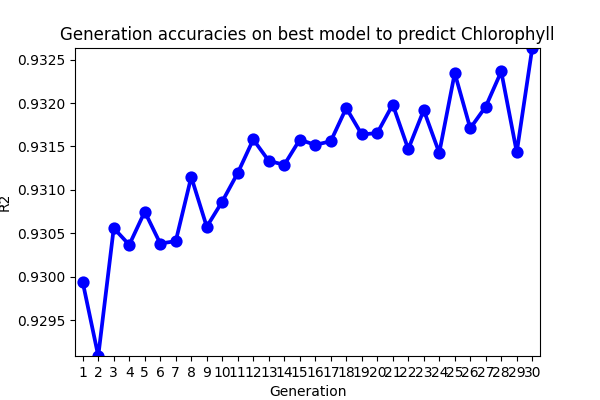
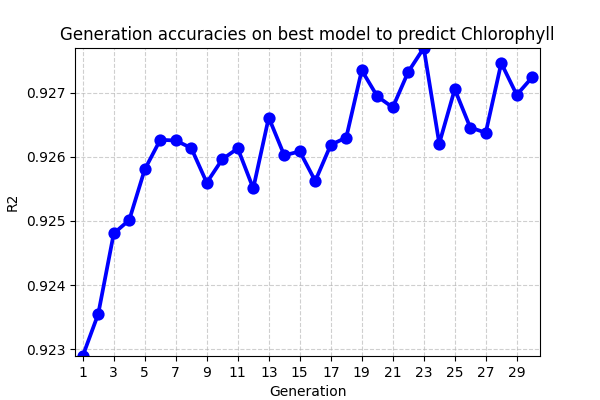
30 gen, mr 0.2

diff --git a/thesis/S2/data_analysis.py b/thesis/S2/data_analysis.py
@@ -737,8 +737,8 @@ class C_gen_alg:
             f.write(f"num genrations: {self.n_gen}\n")
             f.write(f"Best feature subset found: {np.where(self.best_chromo_x_overall)[0]},\n Best feature names: {best_features},\n Corresponding R2: {best_score[0]}\n") 
 
-        self.plot_gen_accuracies(score=avg_chromo_score, x=min(best_score), y=max(best_score), class_name=class_name) #not required.  
-        self.run_best_chromo_on_other_ML(features_key, class_main_key, class_name) 
+        self.plot_gen_accuracies(score=avg_chromo_score, x=min(avg_chromo_score), y=max(avg_chromo_score), class_name=class_name) #not required.  
+        self.run_best_chromo_on_other_ML(features_key, class_main_key, class_name)  
 
     def run_best_chromo_on_other_ML(self, features_key, class_main_key, class_name): 
         print("run best chromo on other ML") 
@@ -918,17 +918,21 @@ class C_gen_alg:
         return pop_next_gen     
     
         
-    def plot_gen_accuracies(self, score,x,y,class_name,c = "b"): #plot the generation accuracies. 
-        print("Plotting gen over time...") 
-        gen = list(range(1, self.n_gen + 1)) 
-        plt.figure(figsize=(6,4))
-        ax = sns.pointplot(x=gen, y=score,color = c )
-        ax.set(xlabel="Generation", ylabel="R2") 
-        ax.set_title(f"Generation accuracies on best model to predict {class_name}")  
-        ax.set(ylim=(x,y)) 
-        plt.savefig(f'{self.outPutPath}plot_gen_accuracies_{self.best_model_name}_predict_{class_name}.png') 
+    def plot_gen_accuracies(self, score, x, y, class_name, c="b"):  # plot the generation accuracies.
+        print("Plotting gen over time...")
+        gen = list(range(1, self.n_gen + 1))
+        plt.figure(figsize=(6, 4))
+        ax = sns.pointplot(x=gen, y=score, color=c)
+        ax.set(xlabel="Generation", ylabel="R2")
+        ax.set_title(f"Generation accuracies on best model to predict {class_name}")
+        ax.set(ylim=(x, y))
+        # Label every second tick on the x-axis
+        ax.xaxis.set_major_locator(plt.MultipleLocator(2))
+        # Turn on the grid 
+        ax.grid(True, linestyle='--', alpha=0.6)
+        plt.savefig(f'{self.outPutPath}plot_gen_accuracies_{self.best_model_name}_predict_{class_name}.png')
         plt.show()
-        plt.close() 
+        plt.close()
         #save the plot
          
 
